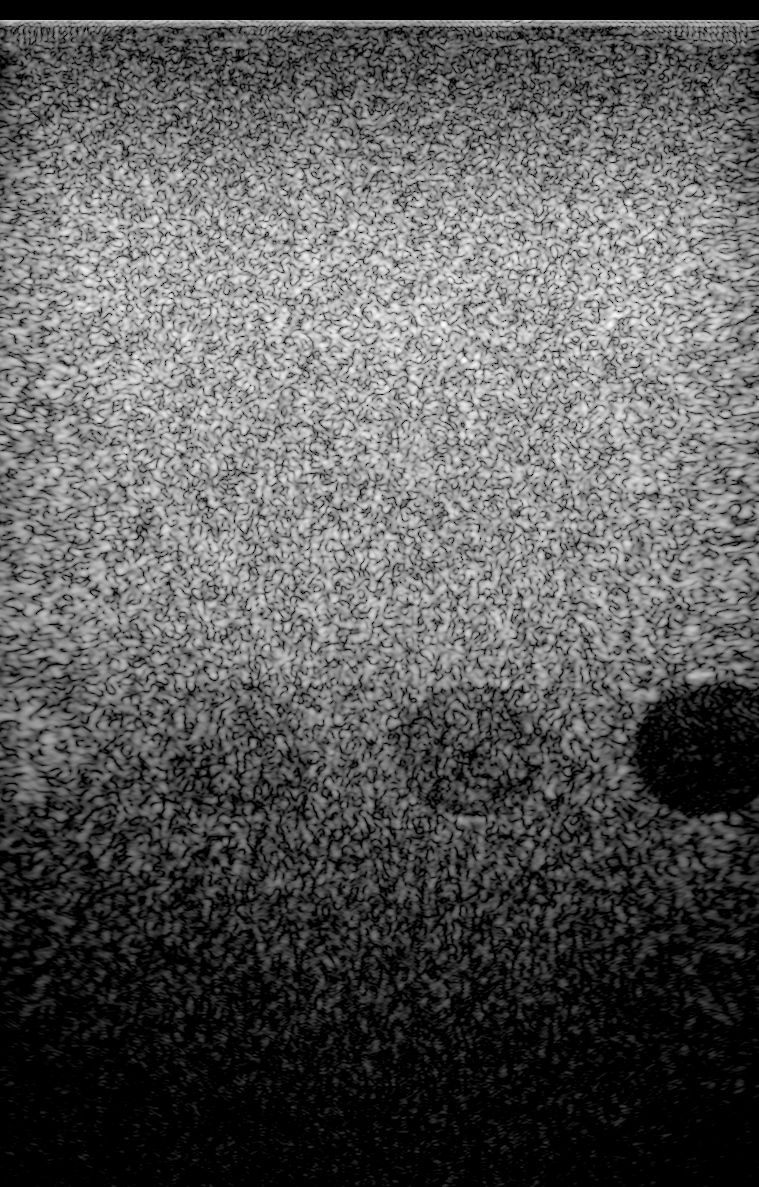
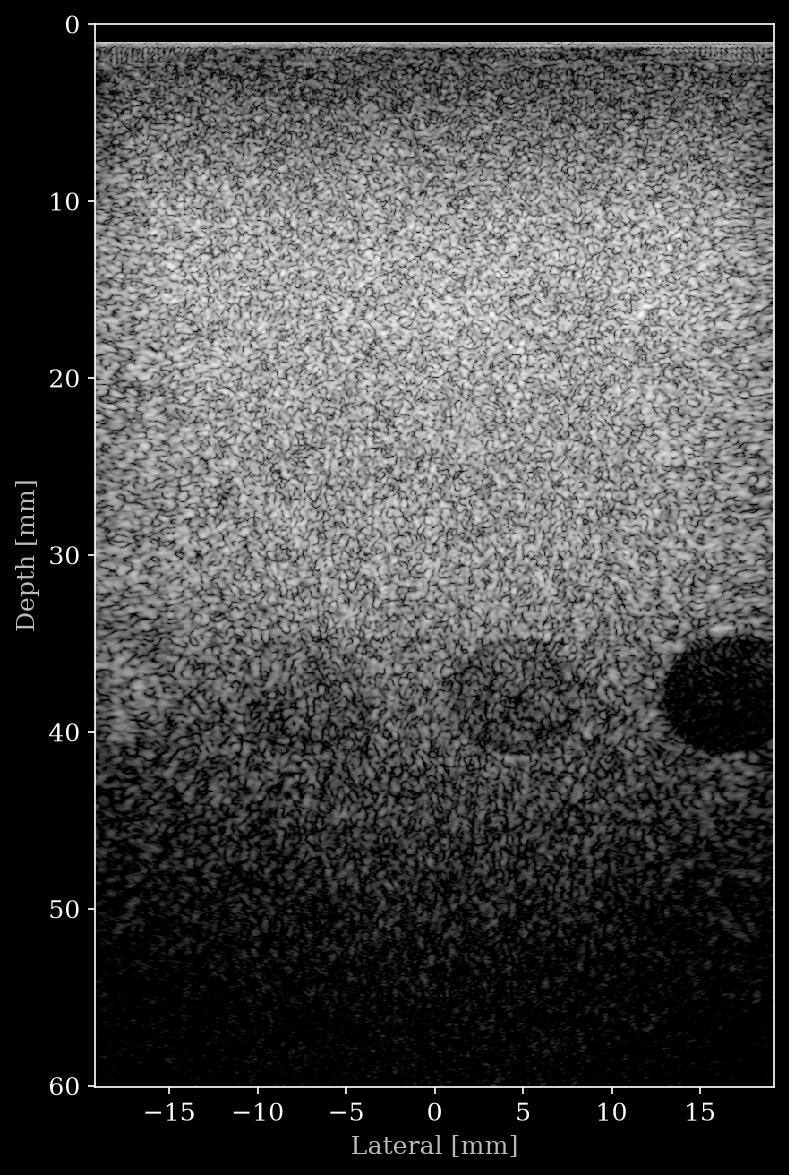
address comments and add specific hero image

diff --git a/datasets/tumunich/reconstruct.py b/datasets/tumunich/reconstruct.py
@@ -10,17 +10,15 @@ array, so a reconstruction has to compound all 21 acquisitions to cover the full
 probe. Transmit uses a 64-element aperture; receive is multiplexed into three
 42/44-element blocks that tile the 128 elements. The grey levels reproduce the
 Verasonics display mapping, making them directly comparable to the VSX B-mode
-stored in the file as ``data/image``. The reconstruction is written as a bare
-raster, one pixel per grid point, following the sample as
-``<input>_reconstructed.png`` unless OUTPUT says otherwise.
+stored in the file as ``data/image``.
 
-Requires zea>=0.1.6 (https://github.com/tue-bmd/zea), the library that does the
+Requires zea>=0.1.7 (https://github.com/tue-bmd/zea), the library that does the
 ultrasound processing here, together with one of its Keras backends (JAX,
 PyTorch or TensorFlow). Installation instructions are at
 https://zea.readthedocs.io/en/latest/installation.html.
 
 Usage:
-    python reconstruct.py
+    uv run python reconstruct.py
 """
 
 import os
@@ -72,6 +70,14 @@ DYNAMIC_RANGE = [-40, 0]  # dB range shown
 # pulse feedthrough clipped at the ADC rail: the same value on every driven element
 # (~32000 against a typical echo of ~284), on exactly the elements that transmit.
 FEEDTHROUGH_SAMPLES = 2
+
+
+def coords_to_imshow_mm(coords):
+    """openh-rf per-pixel coordinates (z, x, 3), last axis [x, y, z] in metres
+    -> mpl imshow extent [left, right, bottom, top] in mm."""
+    x = coords[..., 0]
+    z = coords[..., 2]
+    return [x.min() * 1e3, x.max() * 1e3, z.max() * 1e3, z.min() * 1e3]
 
 
 # These ops are defined here, not in zea: a pipeline.yaml naming them resolves
@@ -182,16 +188,26 @@ def main():
     zea.init_device()
 
     with zea.File(str(INPUT)) as f:
+        display_coords = f.data.image.coordinates[:]
         generated = reconstruct_frame(f, FRAME)
         print(f"Reconstructed: {generated.shape}")
 
-    plt.imsave(
-        OUTPUT,
+    extent = coords_to_imshow_mm(display_coords)
+    zea.visualize.set_mpl_style()
+    fig, ax = plt.subplots(figsize=(6, 8))
+
+    ax.imshow(
         generated,
+        aspect="equal",
         cmap="gray",
+        extent=extent,
         vmin=DYNAMIC_RANGE[0],
         vmax=DYNAMIC_RANGE[1],
     )
+    ax.set_xlabel("Lateral [mm]")
+    ax.set_ylabel("Depth [mm]")
+    plt.tight_layout()
+    plt.savefig(OUTPUT, dpi=150, bbox_inches="tight")
     print(f"Saved {OUTPUT}")
 
 

diff --git a/datasets/tumunich/reconstruct_panorama.py b/datasets/tumunich/reconstruct_panorama.py
@@ -203,13 +203,30 @@ def main():
     panorama = blend_panorama(frames, offsets)
     print(f"Panorama: {panorama.shape} ({panorama.shape[1] * column_spacing * 1e3:.1f} mm wide)")
 
-    plt.imsave(
-        OUTPUT,
+    # Lateral axis is the probe's own, extended by the sweep: canvas column 0 is
+    # the left edge of the frame taken furthest along the travel.
+    lateral_start = (float(coordinates[..., 0].min()) + float(displacement[selected].min())) * 1e3
+    extent = [
+        lateral_start,
+        lateral_start + panorama.shape[1] * column_spacing * 1e3,
+        float(coordinates[..., 2].max()) * 1e3,
+        0.0,
+    ]
+
+    zea.visualize.set_mpl_style()
+    fig, ax = plt.subplots(figsize=(16, 9))
+    ax.imshow(
         panorama,
+        aspect="equal",
         cmap="gray",
+        extent=extent,
         vmin=DYNAMIC_RANGE[0],
         vmax=DYNAMIC_RANGE[1],
     )
+    ax.set_xlabel("Lateral [mm]")
+    ax.set_ylabel("Depth [mm]")
+    plt.tight_layout()
+    plt.savefig(OUTPUT, dpi=150, bbox_inches="tight")
     print(f"Saved {OUTPUT}")
 
 
